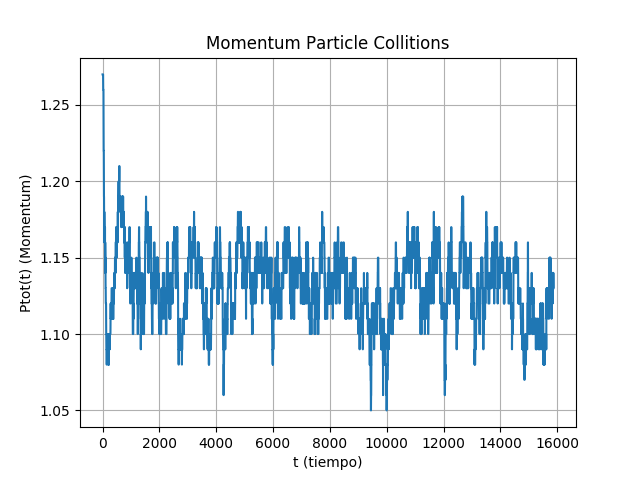
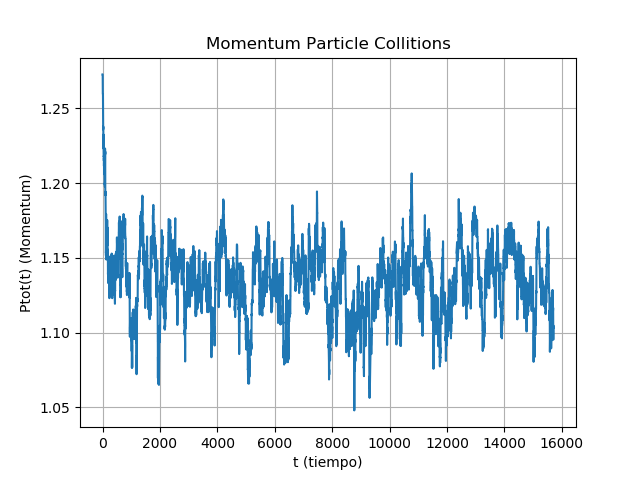
Temperatura

diff --git a/Collitions/system/system.py b/Collitions/system/system.py
@@ -8,11 +8,12 @@ sys.path.insert(0, '../')
 
 import heapq as pq
 import matplotlib.pyplot as plt
-
+import random
 import numpy as np
+from scipy.constants import k as Boltzmann
+
 import disk.disk as disk
 import event.event as ev
-
 
 ################################################################################
 # DEFINICION DE CLASES Y FUNCIONES
@@ -121,15 +122,22 @@ class System:
         print("2.4.1 check_overlap(): Todo está Perfecto.")
 
 
-    def Ptot(self):
+    def Ptot(self, eje = None):
         p = 0
         N = len(self.particles)
         for i in range(0, N):
             part = self.particles[i]
-            p += part.mass * part.speed()
+            if eje == 1:
+                p += part.mass * part.vx
+            elif eje == 2:
+                p += part.mass * part.vy
+            elif eje == None:
+                p += part.mass * part.speed()
         p /= N
         # print("      Ptot: Calculando Momentum y graficando.")
+        # print("p =", p)
         return p
+
 
 ################################################################################
 
@@ -150,11 +158,50 @@ class System:
                 df2 += df1 # round(df1, 2)
                 cont += 1
             dc2 += dc1 # round(dc1, 2)
+        print("2.4.2 red_cuadrada(): Montando red regular de discos.")
+
+    def densidad(self):
+        n = len(self.particles)/(disk.LX * disk.LY)
+        print("2.4.2 densidad(): Calculando densidad del sistema. ")
+        return n
 
 ################################################################################
+
+################################################################################
+    # 2.4.3 TEMPERATURA
+
+    def temperatura(self):
+        KB = Boltzmann
+        # print("kb =", KB)
+        Ptot = self.Ptot()
+        temp = Ptot/(2*KB*len(self.particles))
+        # print("Temp =", temp)
+        return temp
+
+    def aux(self, Temp):
+        fc = 1.001
+        for i in self.particles:
+            i.vx = random.uniform(0., 0.00000000000000000001)
+            i.vy = random.uniform(0., 0.00000000000000000001)
+        while True:
+            temp = self.temperatura()
+            if Temp <= temp:
+                print("2.4.3 Se alcanzo la temperatura deseada, temp =", temp)
+                break
+            else:
+                for k in self.particles:
+                    k.vx *= fc
+                    k.vy *= fc
+        return temp
+
+################################################################################
+
+
     def main_loop(self, sim_time, fpe=None):
+
         # Funcion bella & hermosa que hace todo
         Ptot = []
+        TempTot = []
         if self.window == True:
             fig, ax = plt.subplots()
             fig.set_size_inches(disk.WX, disk.WY)
@@ -175,15 +222,22 @@ class System:
             fig.canvas.draw()
             plt.pause(3)
 
+        if sim_time == 0:
+            return
+
         cont = 0
+        if len(self.minpq) == 0:
+            print("Pailas")
         while(len(self.minpq) != 0):
             event = self.next_valid_event()
             if event is None:
+                print("Pailas")
                 break
             self.move_all_particles(event)
             self.update_velocities(event)
             self.predict_colls(event, sim_time)
             cont += 1
+            # print(cont)
 
             for k in self.particles:
                 k.obj.center = k.x, k.y
@@ -192,14 +246,17 @@ class System:
                 plt.pause(0.000000000000001)
 
             Pt = self.Ptot()
-            Ptot.append(round(Pt, 2))
+            Ptot.append(Pt)
+
+            TempT = self.temperatura()
+            TempTot.append(TempT)
 
         if self.window == True:
             plt.show()
+        print("2.4.1 Ptot(): Calculando Momentum y graficando")
+        print("2.4.3 temperatura(): Calculando Temperatura del sistema y graficando.")
 
-        print("      Ptot(): Calculando Momentum y graficando.")
-
-        return Ptot
+        return Ptot, TempTot
 
 
     ############################################

diff --git a/Collitions/simulation/243.py b/Collitions/simulation/243.py
@@ -16,60 +16,48 @@ import system.system as sy
 ################################################################################
 # BLOQUE PRINCIPAL DE INSTRUCCIONES ############################################
 
-disk.VX = 0.9
-disk.VY = 0.9
+disk.LX = 11
+disk.LY = 11
 
-NoPart = 50
+disk.VX = 0.000000000000000000005 # 0.5
+disk.VY = 0.000000000000000000005 # 0.3
+
+NoPart = 100
 colors = ['red', 'blue', 'green', 'yellow', 'pink', 'magenta', 'cyan', 'orange', 'purple']
-radio = 2
+radio = 0.1 # 0.05
 
 wind = False
 System = sy.System(window = wind)
-
-#-------DISTINTAS VELOCIDADES PARA LOS DISCOS----------
-factor_constante = 1
 for i in range(NoPart):
-    disk.VX = random.uniform(0.1, 3) * factor_constante
-    disk.VY = random.uniform(0.1, 3) * factor_constante
+    # System.particles.append(disk.Disk(vx = random.uniform(0.1, 0.7), vy = random.uniform(0.1, 0.7), rad = radio, col = random.choice(colors), tag = str(i)))
     System.particles.append(disk.Disk(vx = disk.VX, vy = disk.VY, rad = radio, col = random.choice(colors), tag = str(i)))
 
 System.set_random_positions()
 
-# 2.4.3 Temperatura()
-temperatura = 0
-for k in System.particles:
-    mi = k.mass/2
-    vi = k.vx * k.vx + k.vy + k.vy
-    temperatura += mi*vi/(NoPart)
-
-print(temperatura)
-#------------DISTINTAS VELOCIDADES DADAS-----------------
-vels = []
-temperatura = 0
-for k in System.particles:
-    mi = k.mass/2
-    vi = k.vx * k.vx + k.vy + k.vy
-    temperatura += mi*vi/(NoPart)
-
-print(temperatura)
-
+TempAA = 500
+System.aux(TempAA)
 
 cont = 0
 for j in System.particles:
     # print(j)
     cont += 1
     j.obj = Circle((j.x, j.y), j.rad, color = j.col)
+    j.vx = disk.VX
+    j.vy = disk.VY
 
-sim_time = 200000
-Ptot = System.main_loop(sim_time) # Retorna el Momentum en un tiempo t
+sim_time = 20000000000000000000000
+Ptot, TempTot = System.main_loop(sim_time) # Retorna el Momentum en un tiempo t
 
-# 2.4.1 Grafica del Momentum Lineal
+print(TempTot)
+
 # print(Ptot)
-# print("len =", len(Ptot))
+# print(System.Ptot())
+# System.temperatura()
+
 fig, ax = plt.subplots()
-time = [i for i in range(0, len(Ptot))]
-ax.plot(time, Ptot)
-ax.set(xlabel = 't (tiempo)', ylabel = 'Ptot(t) (Momentum)', title = 'Momentum Particle Collitions')
+time = [i for i in range(0, len(TempTot))]
+ax.plot(time, TempTot)
+ax.set(xlabel = 't (tiempo)', ylabel = 'T(t) (Temperatura)(K°)', title = 'Temperatura Particle Collitions')
 ax.grid()
-# plt.savefig("241Ptot.PNG")
+plt.savefig("243TempTot.PNG")
 plt.show()

diff --git a/Collitions/simulation/241.py b/Collitions/simulation/241.py
@@ -40,7 +40,7 @@ for j in System.particles:
     j.obj = Circle((j.x, j.y), j.rad, color = j.col)
 
 sim_time = 20000
-Ptot = System.main_loop(sim_time) # Retorna el Momentum en un tiempo t
+Ptot, TempTot = System.main_loop(sim_time) # Retorna el Momentum en un tiempo t
 
 # 2.4.1 Grafica del Momentum Lineal
 # print(Ptot)
@@ -52,3 +52,16 @@ ax.set(xlabel = 't (tiempo)', ylabel = 'Ptot(t) (Momentum)', title = 'Momentum P
 ax.grid()
 # plt.savefig("241Ptot.PNG")
 plt.show()
+
+################################################################################
+
+# Después de ejecutar la función check_overlap() podemos afirmar que los discos
+# no se solapan, así podemos comenzar con la función mainloop() que se encarga de
+# correr la simulación
+
+# Además la idea es calcular el Momentum Lineal a medida que avanza el tiempo,
+# asi que lo calculamos con la función Ptot(t) y posteriormente hacemos una
+# grafica con toda la información recopilada: 241Ptot.PNG
+
+# Como el Momentum Lineal es un vector, podemos separarlo en Momentum sobre el
+# eje x y Momentum sobre el eje y: 241Ptotx.PNG & 241Ptoty.PNG

diff --git a/Collitions/simulation/242.py b/Collitions/simulation/242.py
@@ -24,7 +24,7 @@ disk.VY = 0.3
 
 NoPart = 100
 colors = ['red', 'blue', 'green', 'yellow', 'pink', 'magenta', 'cyan', 'orange', 'purple']
-radio = 0.3 # 0.05
+radio = 0.55 # 0.05
 
 wind = True
 System = sy.System(window = wind)
@@ -40,5 +40,7 @@ for j in System.particles:
     cont += 1
     j.obj = Circle((j.x, j.y), j.rad, color = j.col)
 
-sim_time = 5000
-Ptot = System.main_loop(sim_time) # Retorna el Momentum en un tiempo t
+sim_time = 0
+Ptot, TempTot = System.main_loop(sim_time) # Retorna el Momentum en un tiempo t
+plt.savefig("242densidadmaxima.PNG")
+print(System.densidad())
